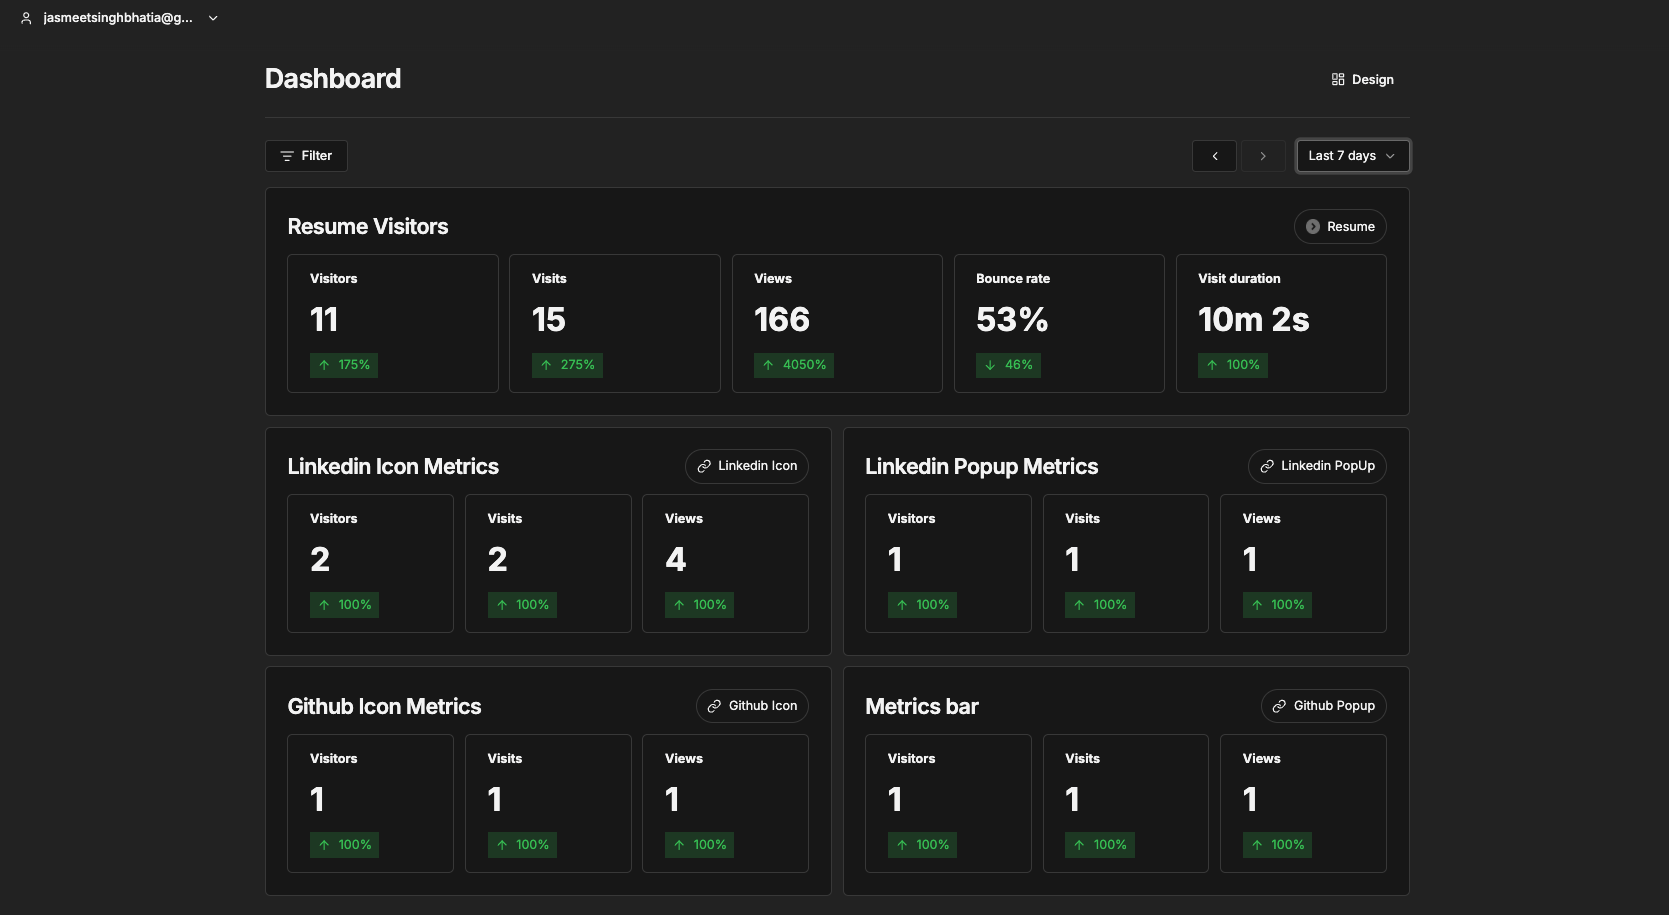
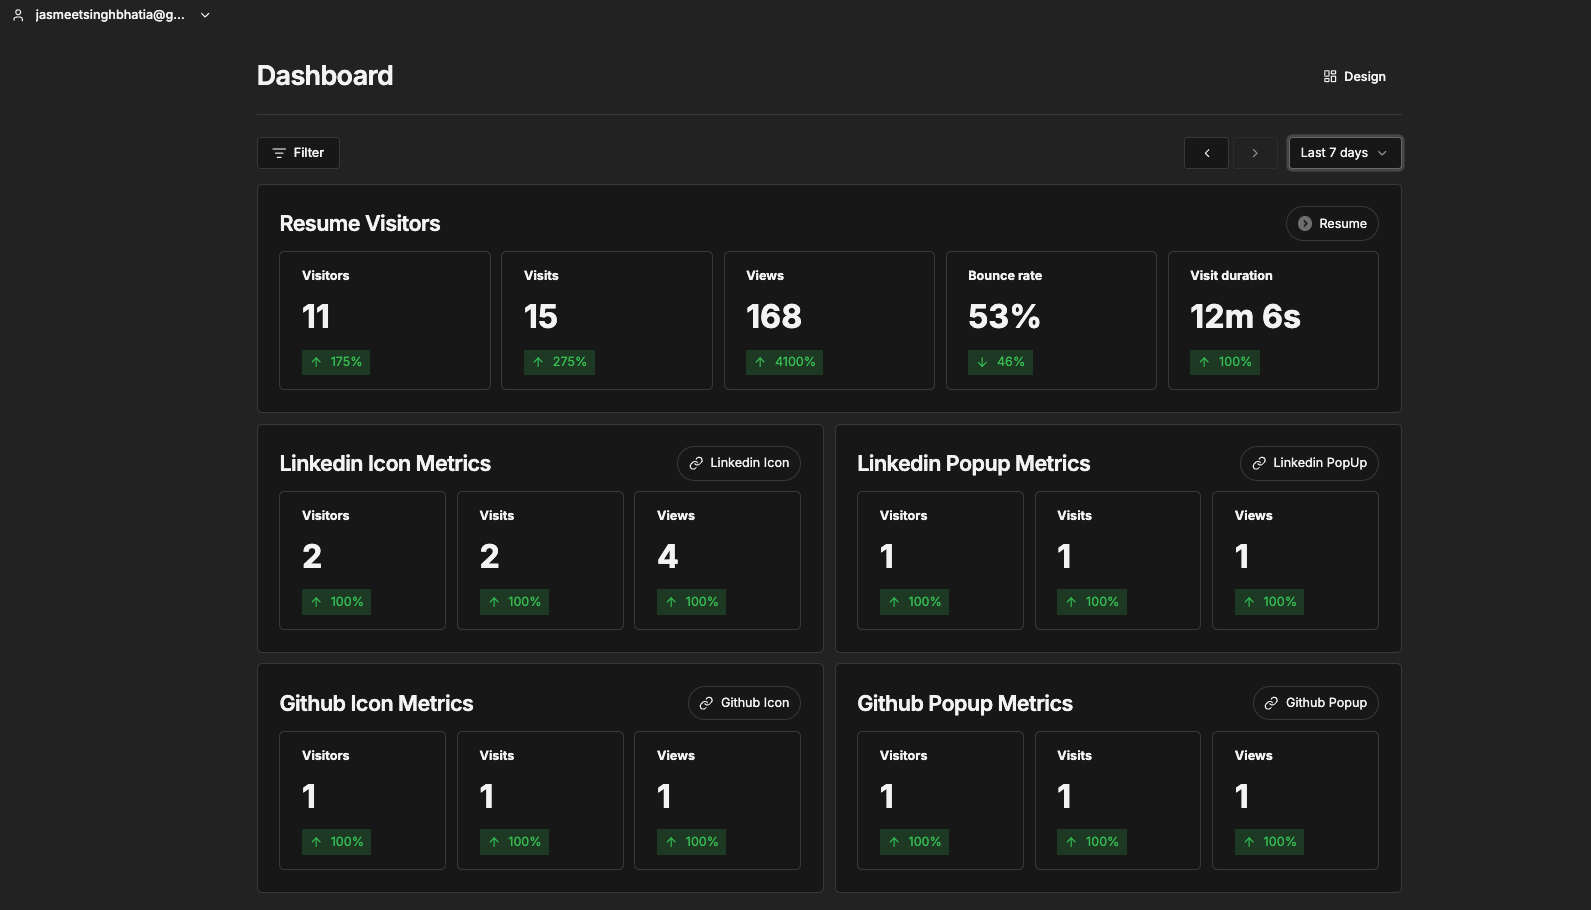
add live url

diff --git a/README.md b/README.md
@@ -2,6 +2,8 @@
 
 A responsive web resume paired with an integrated visitor analytics dashboard to track traffic and engagement.
 
+🔗 **Live URL:** [https://jasmeetsingh.is-a.dev](https://jasmeetsingh.is-a.dev)
+
 ---
 
 ## 1. Resume Preview
